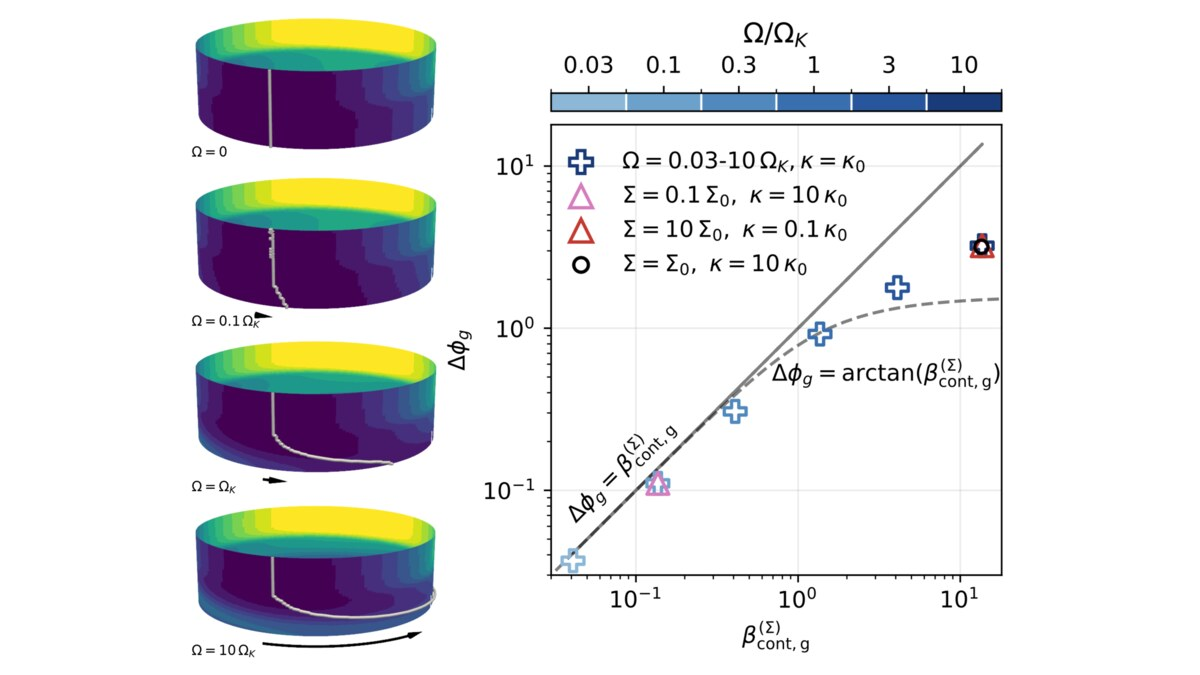
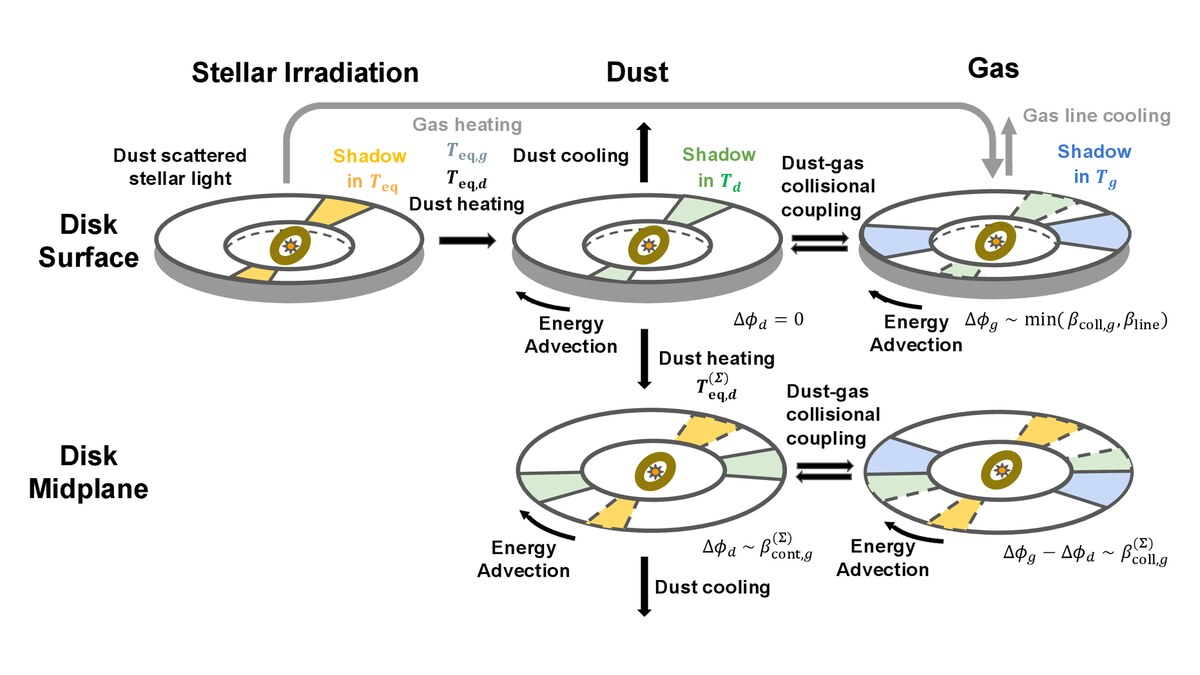
Merge Paper I and II into 'Disk thermodynamics with shadows'; rename shadows page
'Shadows and disk thermodynamics' becomes 'Shadow-driven dynamics'. The Paper II
section is a git-ignored include, switched on locally by a git-ignored data file.

diff --git a/_projects/1_shadows.md b/_projects/1_shadows.md
@@ -1,7 +1,7 @@
 ---
 layout: page
-title: Shadows and disk thermodynamics
-description: How shadows cast by inner disks cool, warp, and sculpt the outer disk
+title: Shadow-driven dynamics
+description: How shadows cast by inner disks launch spirals, drive accretion, and warp the outer disk
 img: assets/img/research/thumb_shadows.jpg
 importance: 1
 category: disk physics
@@ -23,7 +23,7 @@ spirals that efficiently transport mass through the cavity and resemble features
 {% cite 2024ApJ...974L..38Z %}. Shadows cast by a misaligned inner disk can drive strong accretion and even warp the
 outer disk {% cite 2025ApJ...995L..33Z %}. With PhD student Xiaoyi Ma, I am building a framework for how dust and gas
 emission respond to shadows, so that observations of shadowed disks can constrain how quickly disks cool
-{% cite zhang2026shadowsI %}; see [shadows as thermometers](/projects/5_shadow_thermometer/).
+{% cite zhang2026shadowsI %}; see [disk thermodynamics with shadows](/projects/5_shadow_thermodynamics/).
 
 More broadly, temperature variations themselves can create rings and spirals
 {% cite 2021ApJ...923...70Z 2025ApJ...980..259Z %}, which is essential to know before attributing every

diff --git a/_projects/5_shadow_thermodynamics.md b/_projects/5_shadow_thermodynamics.md
@@ -1,7 +1,7 @@
 ---
 layout: page
-title: Shadows as thermometers
-description: How fast do disks cool? Reading thermodynamics from the dust and gas response to shadows
+title: Disk thermodynamics with shadows
+description: How fast do disks cool? Measuring thermodynamics from how dust and gas respond to shadows
 img: assets/img/research/thumb_shadow_thermo.jpg
 importance: 1.5
 category: disk physics
@@ -61,6 +61,10 @@ response regimes set by the hierarchy of these timescales {% cite zhang2026shado
   surface densities, and opacities, compared with the framework's analytic predictions (lines). Zhang, Ma et al.
   (submitted).
 </div>
+
+{% if site.data.unpublished.shadows_paper2 %}
+{% include unpublished/shadows_paper2.md %}
+{% endif %}
 
 ## What comes next
 
